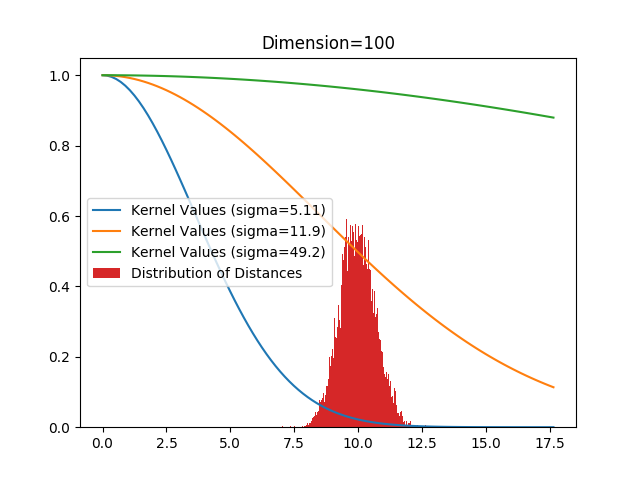
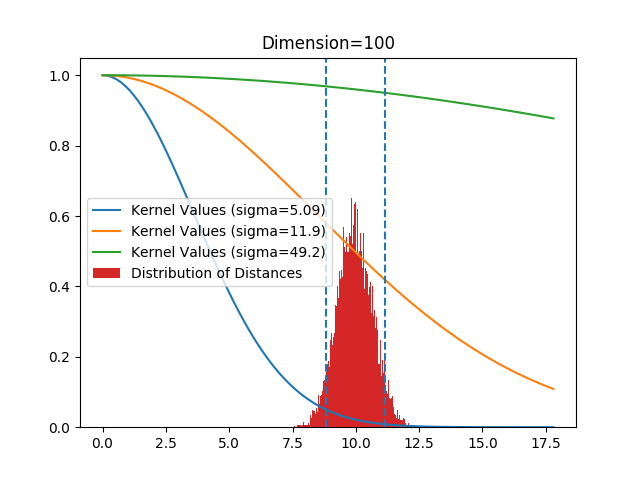
showed Gaussian failing for high dim

diff --git a/Presentation 1/Code/c3_problem_with_gaussian_kernel.py b/Presentation 1/Code/c3_problem_with_gaussian_kernel.py
@@ -33,6 +33,8 @@ for dim in dimensions:
 	ax.plot(dist_vals,kernel_vals,label="Kernel Values (sigma="+str(sigma)[:4]+")") 
 	ax.plot(dist_vals,kernel_vals2,label="Kernel Values (sigma="+str(sigma2)[:4]+")") 
 	ax.hist(actual_distances,bins=200,density=True,label="Distribution of Distances") 
+	ax.axvline(d_5,ls='--')
+	ax.axvline(d_95,ls='--')
 	ax.set_title("Dimension="+str(dim))
 	ax.legend() 
 	fig.savefig('../Graphs/g3_problem_with_Gaussian_dim='+str(dim)+'.png')
